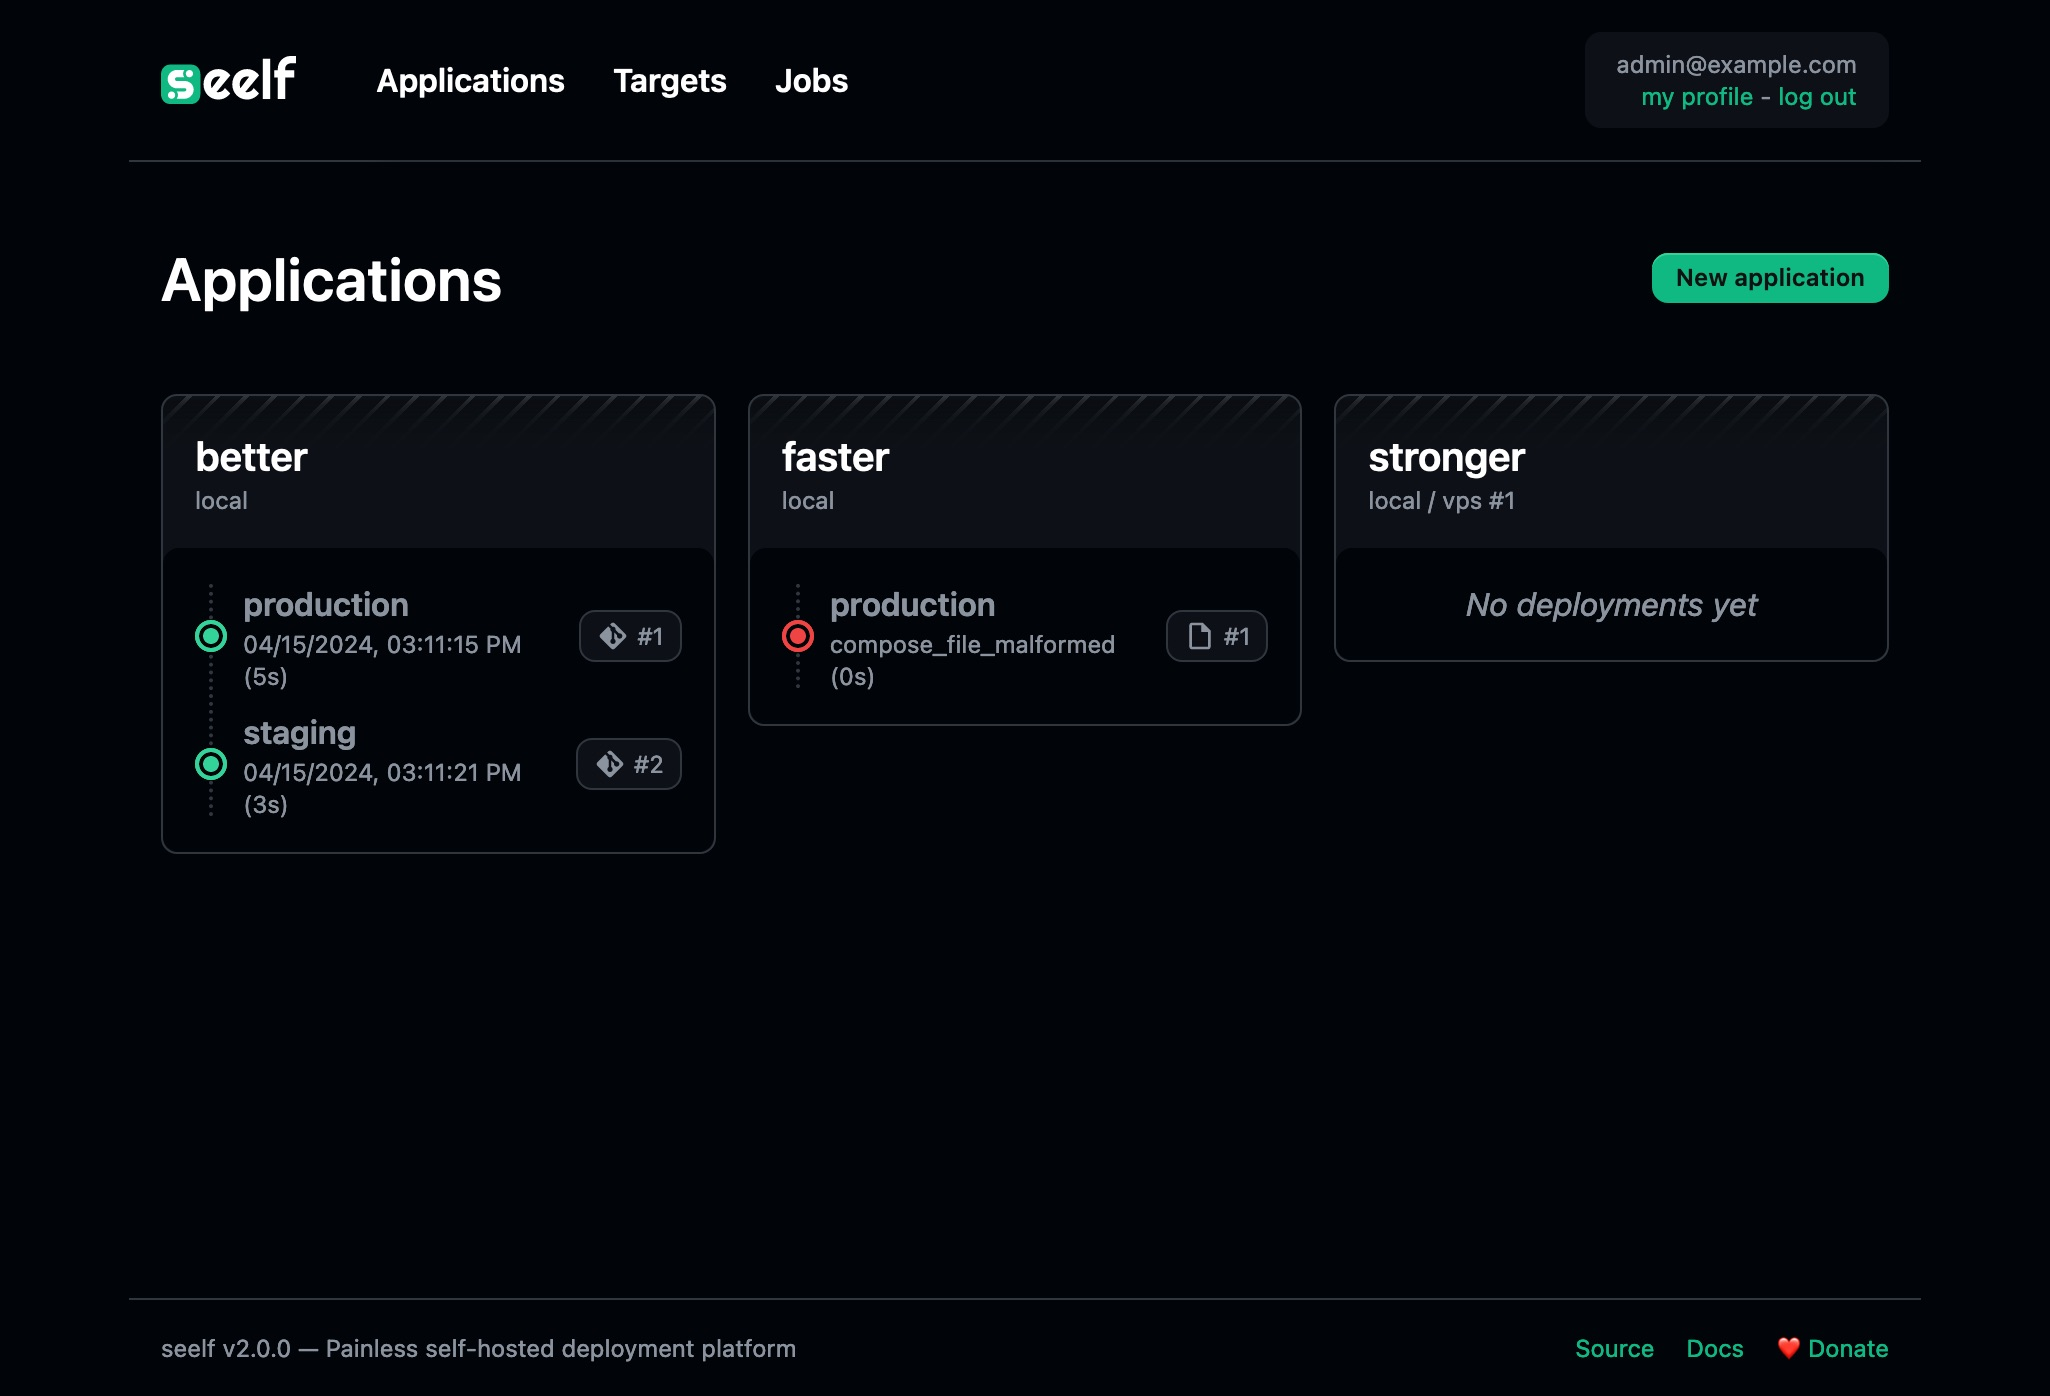
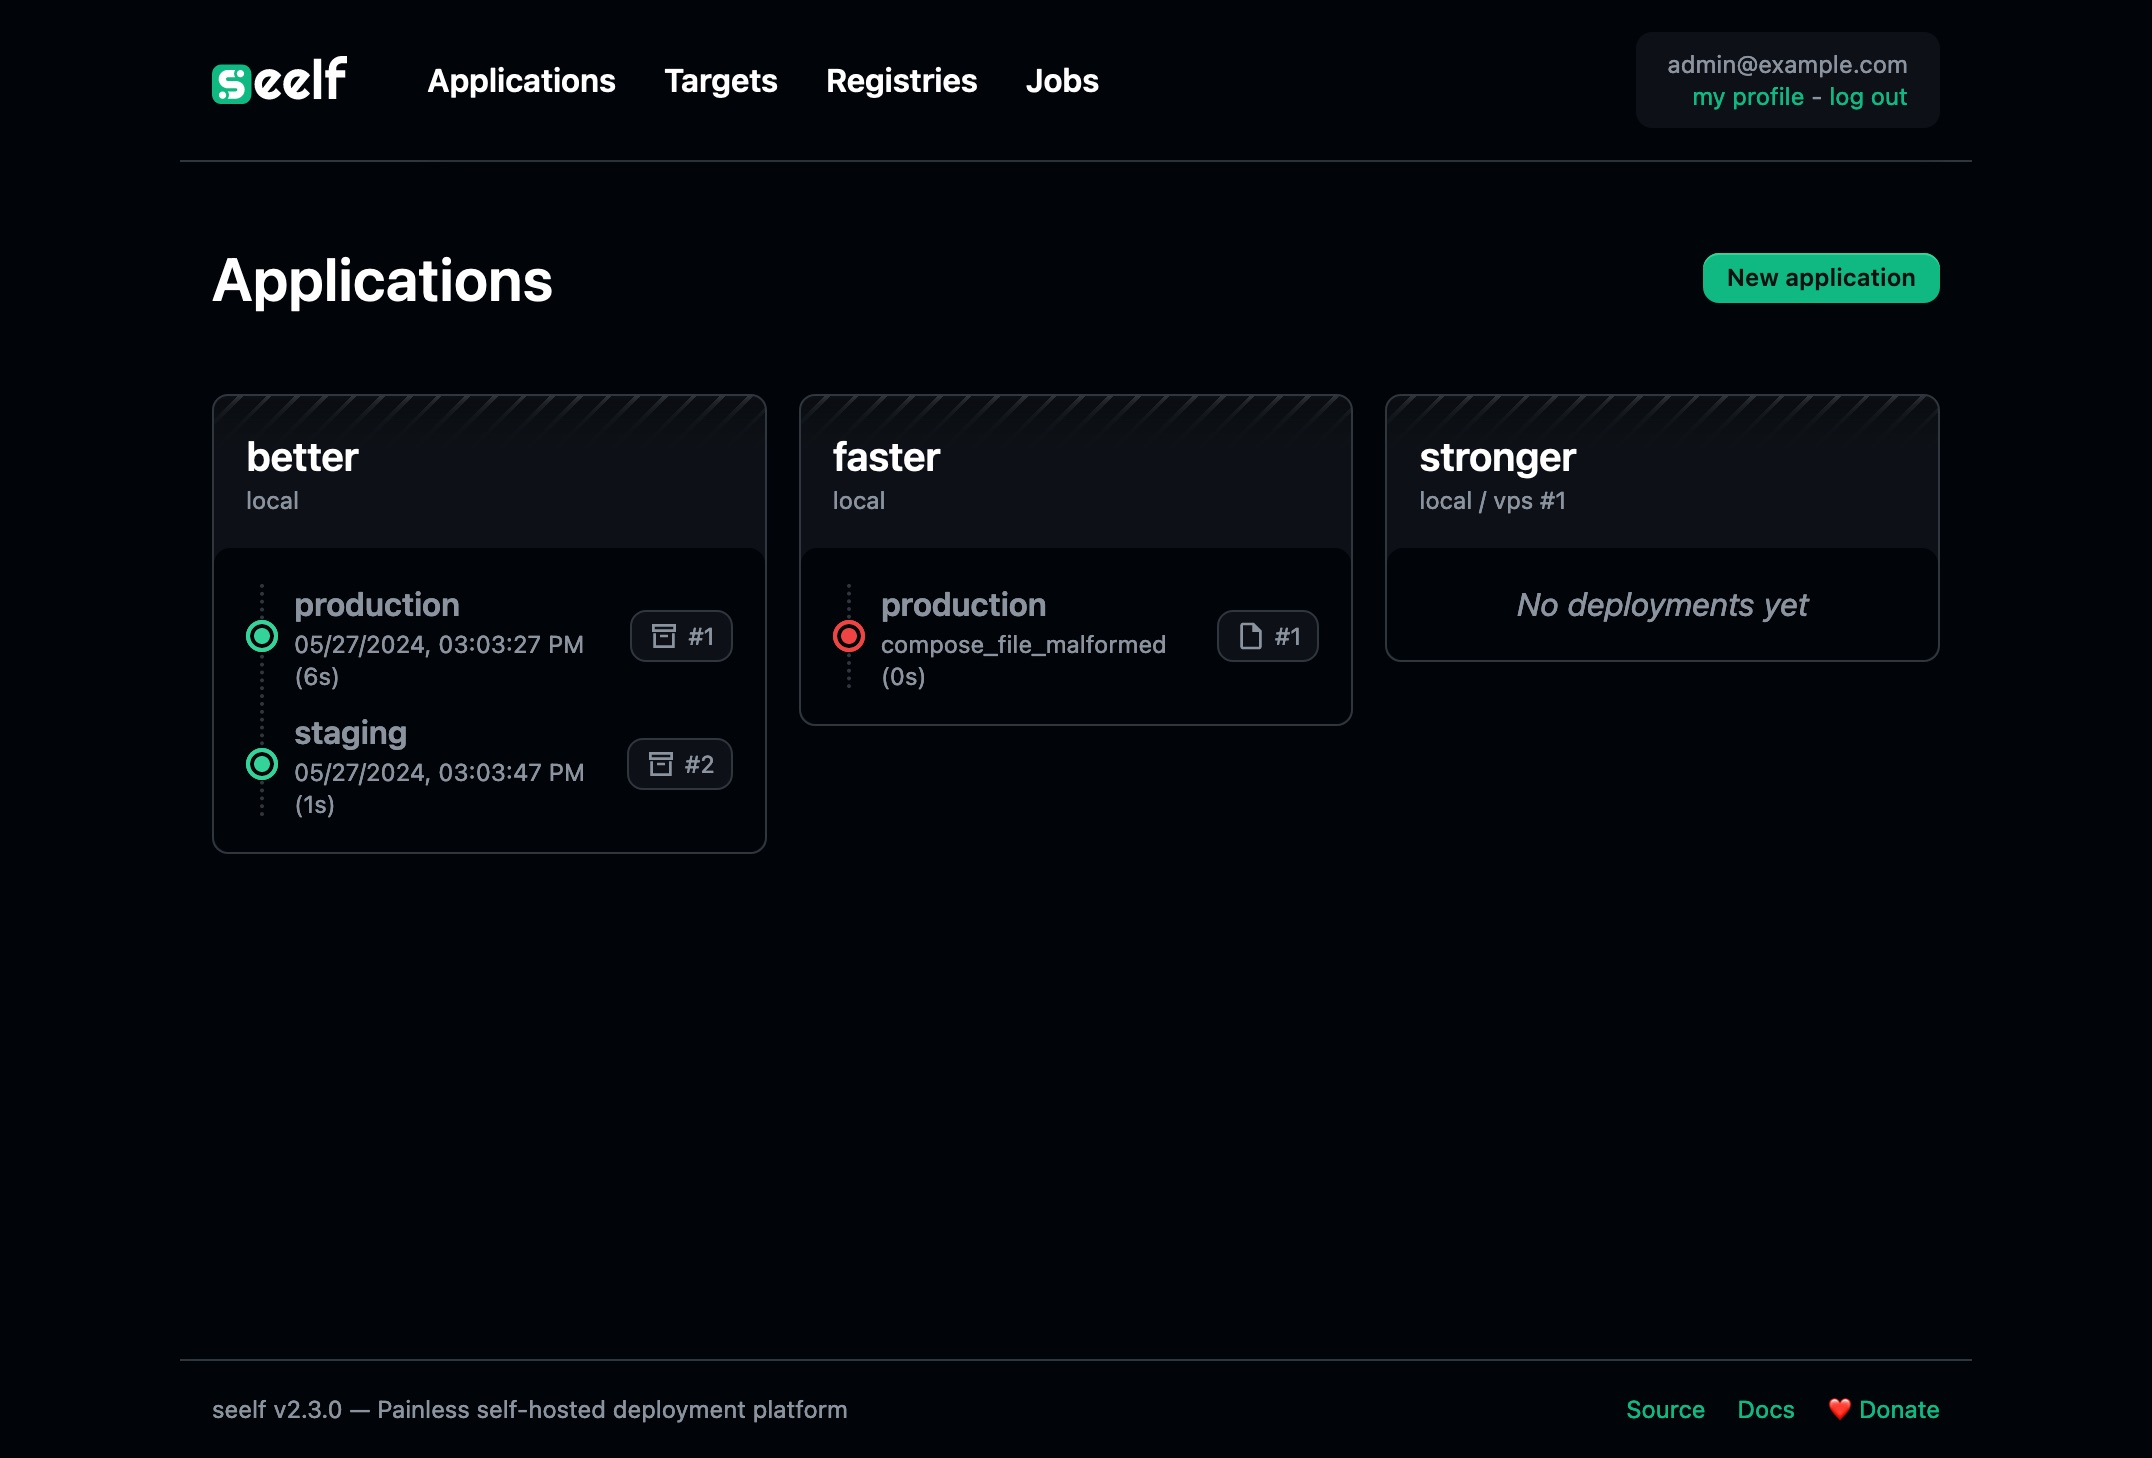
docs: add custom registries basic documentation

diff --git a/cmd/serve/front/src/routes/(main)/registries/+error.svelte b/cmd/serve/front/src/routes/(main)/registries/+error.svelte
@@ -8,7 +8,7 @@
 
 <Breadcrumb
 	segments={[
-		{ path: routes.targets, title: l.translate('breadcrumb.registries') },
+		{ path: routes.registries, title: l.translate('breadcrumb.registries') },
 		l.translate('breadcrumb.not_found')
 	]}
 />

diff --git a/docs/guide/installation.md b/docs/guide/installation.md
@@ -68,6 +68,8 @@ You probably want to expose seelf itself on an url without a port and with a val
 
 ::: warning
 If you choose to expose **seelf** with the local target, you **should never** delete the target or things may break.
+
+If it happens, you can map the port `8080` to access your seelf instance (on the root domain and port) and reconfigure the target. Once done, you can remove the ports section since seelf will be exposed by the proxy.
 :::
 
 To do this, we recommend to use the [docker compose installation](#with-compose) and add the missing parts.

diff --git a/docs/reference/registries.md b/docs/reference/registries.md
@@ -1,0 +1,5 @@
+# Custom registries
+
+If you need to deploy images hosted on private registries (such as ones using the [registry](https://hub.docker.com/_/registry) image), you can declare them on **seelf** on the appropriate page.
+
+Registries are **shared** across [targets](/reference/targets) and are used during the deployment process as soon as they are configured.
